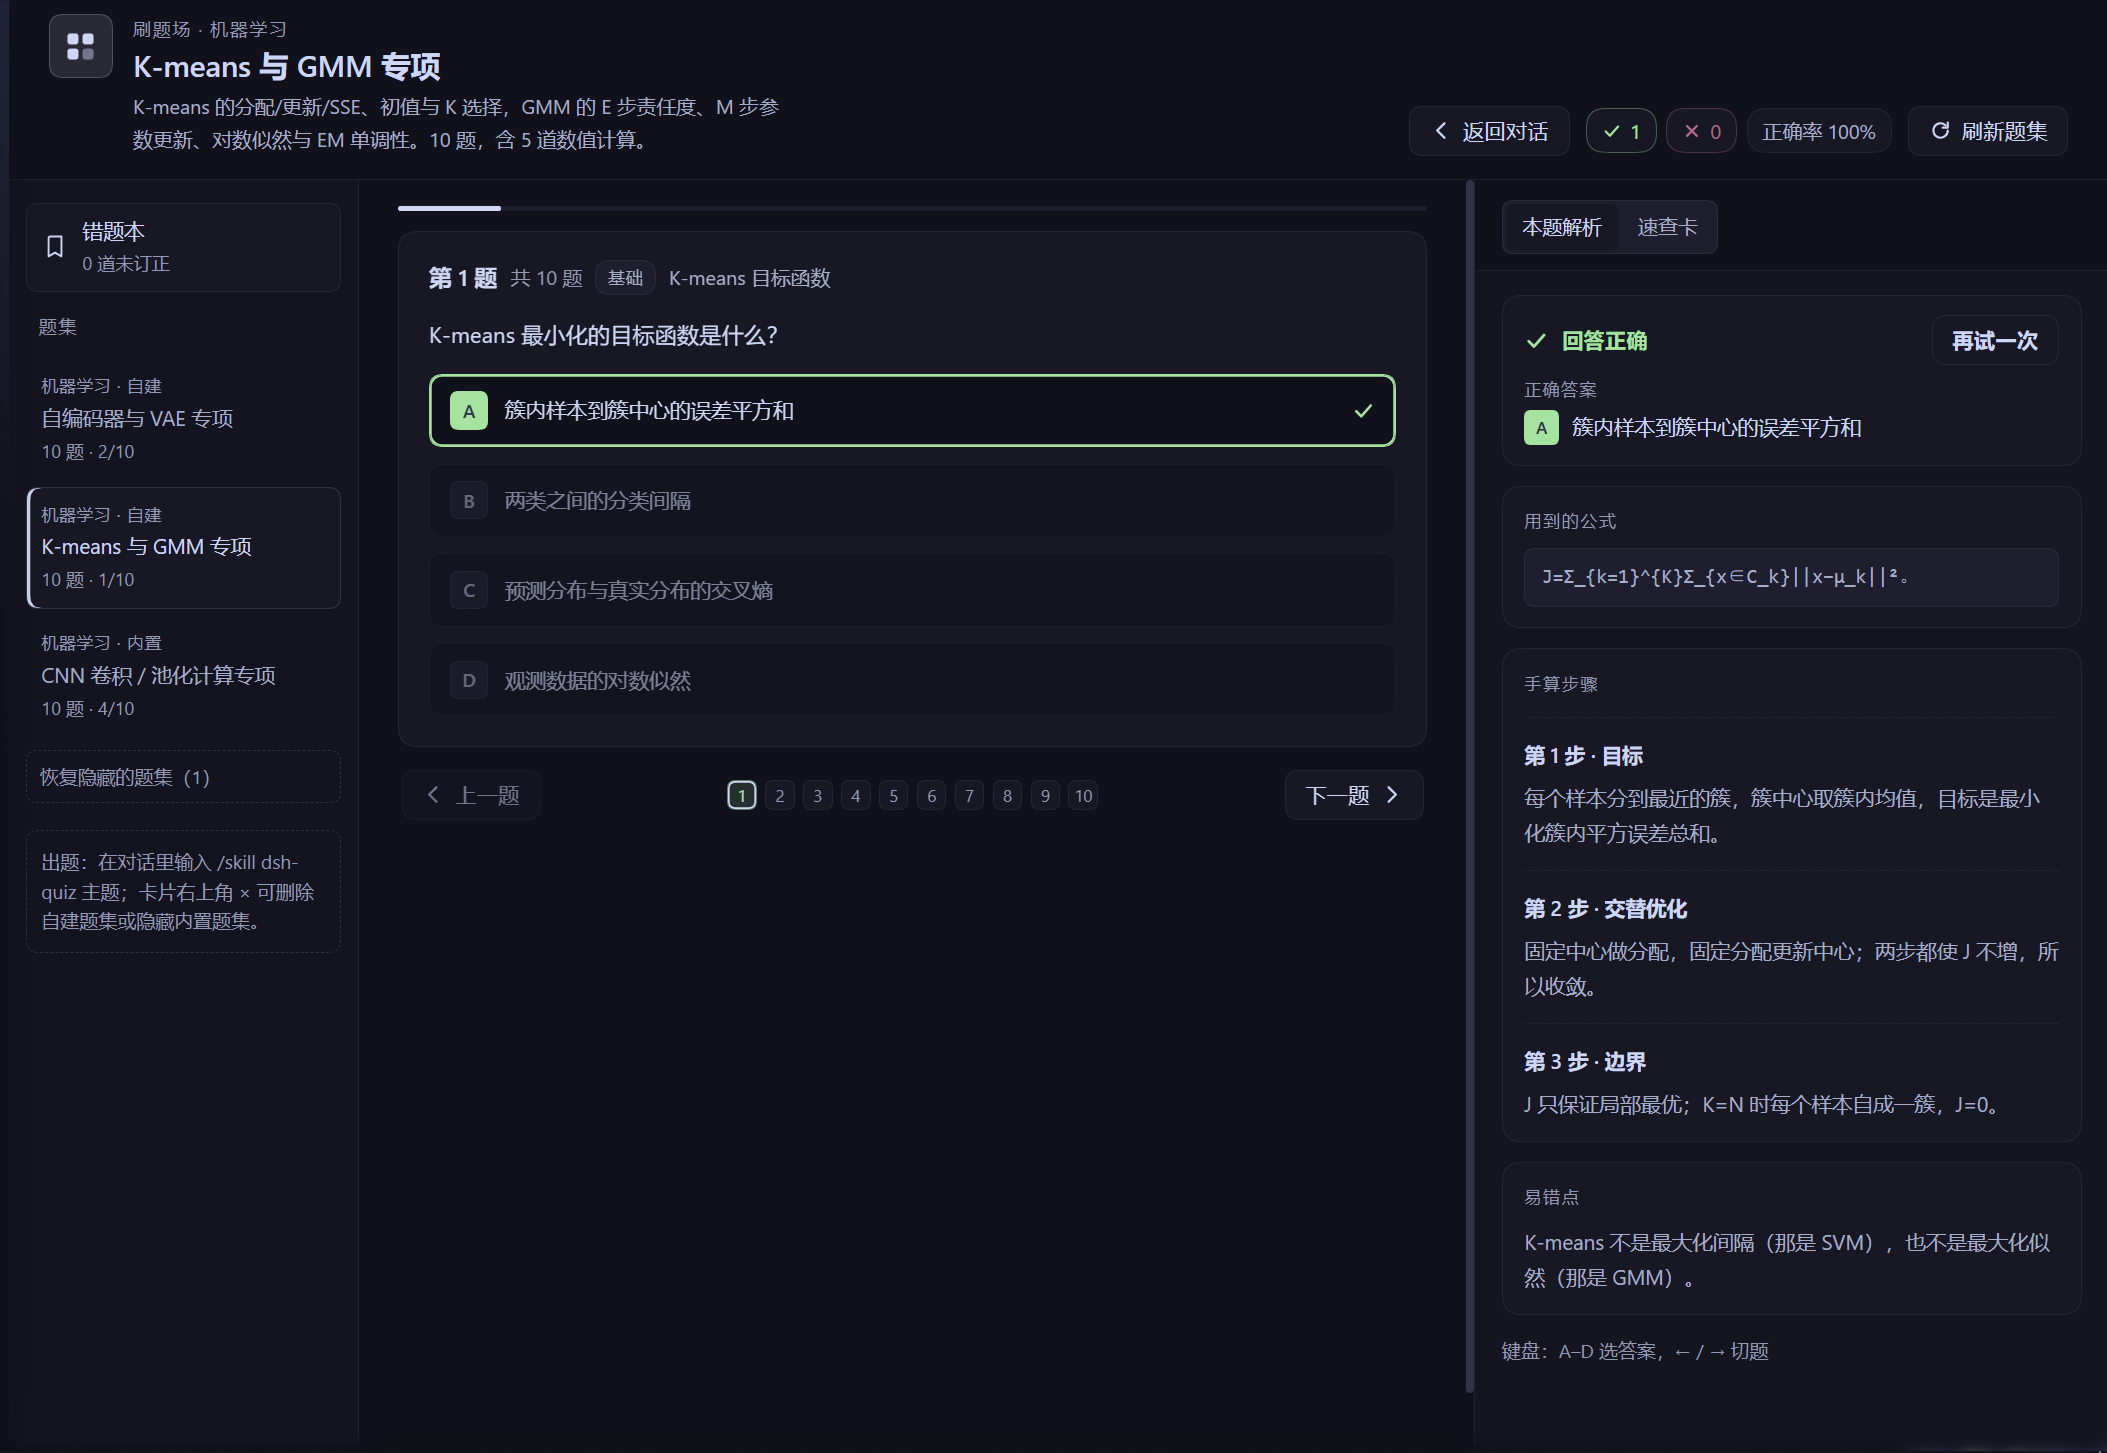
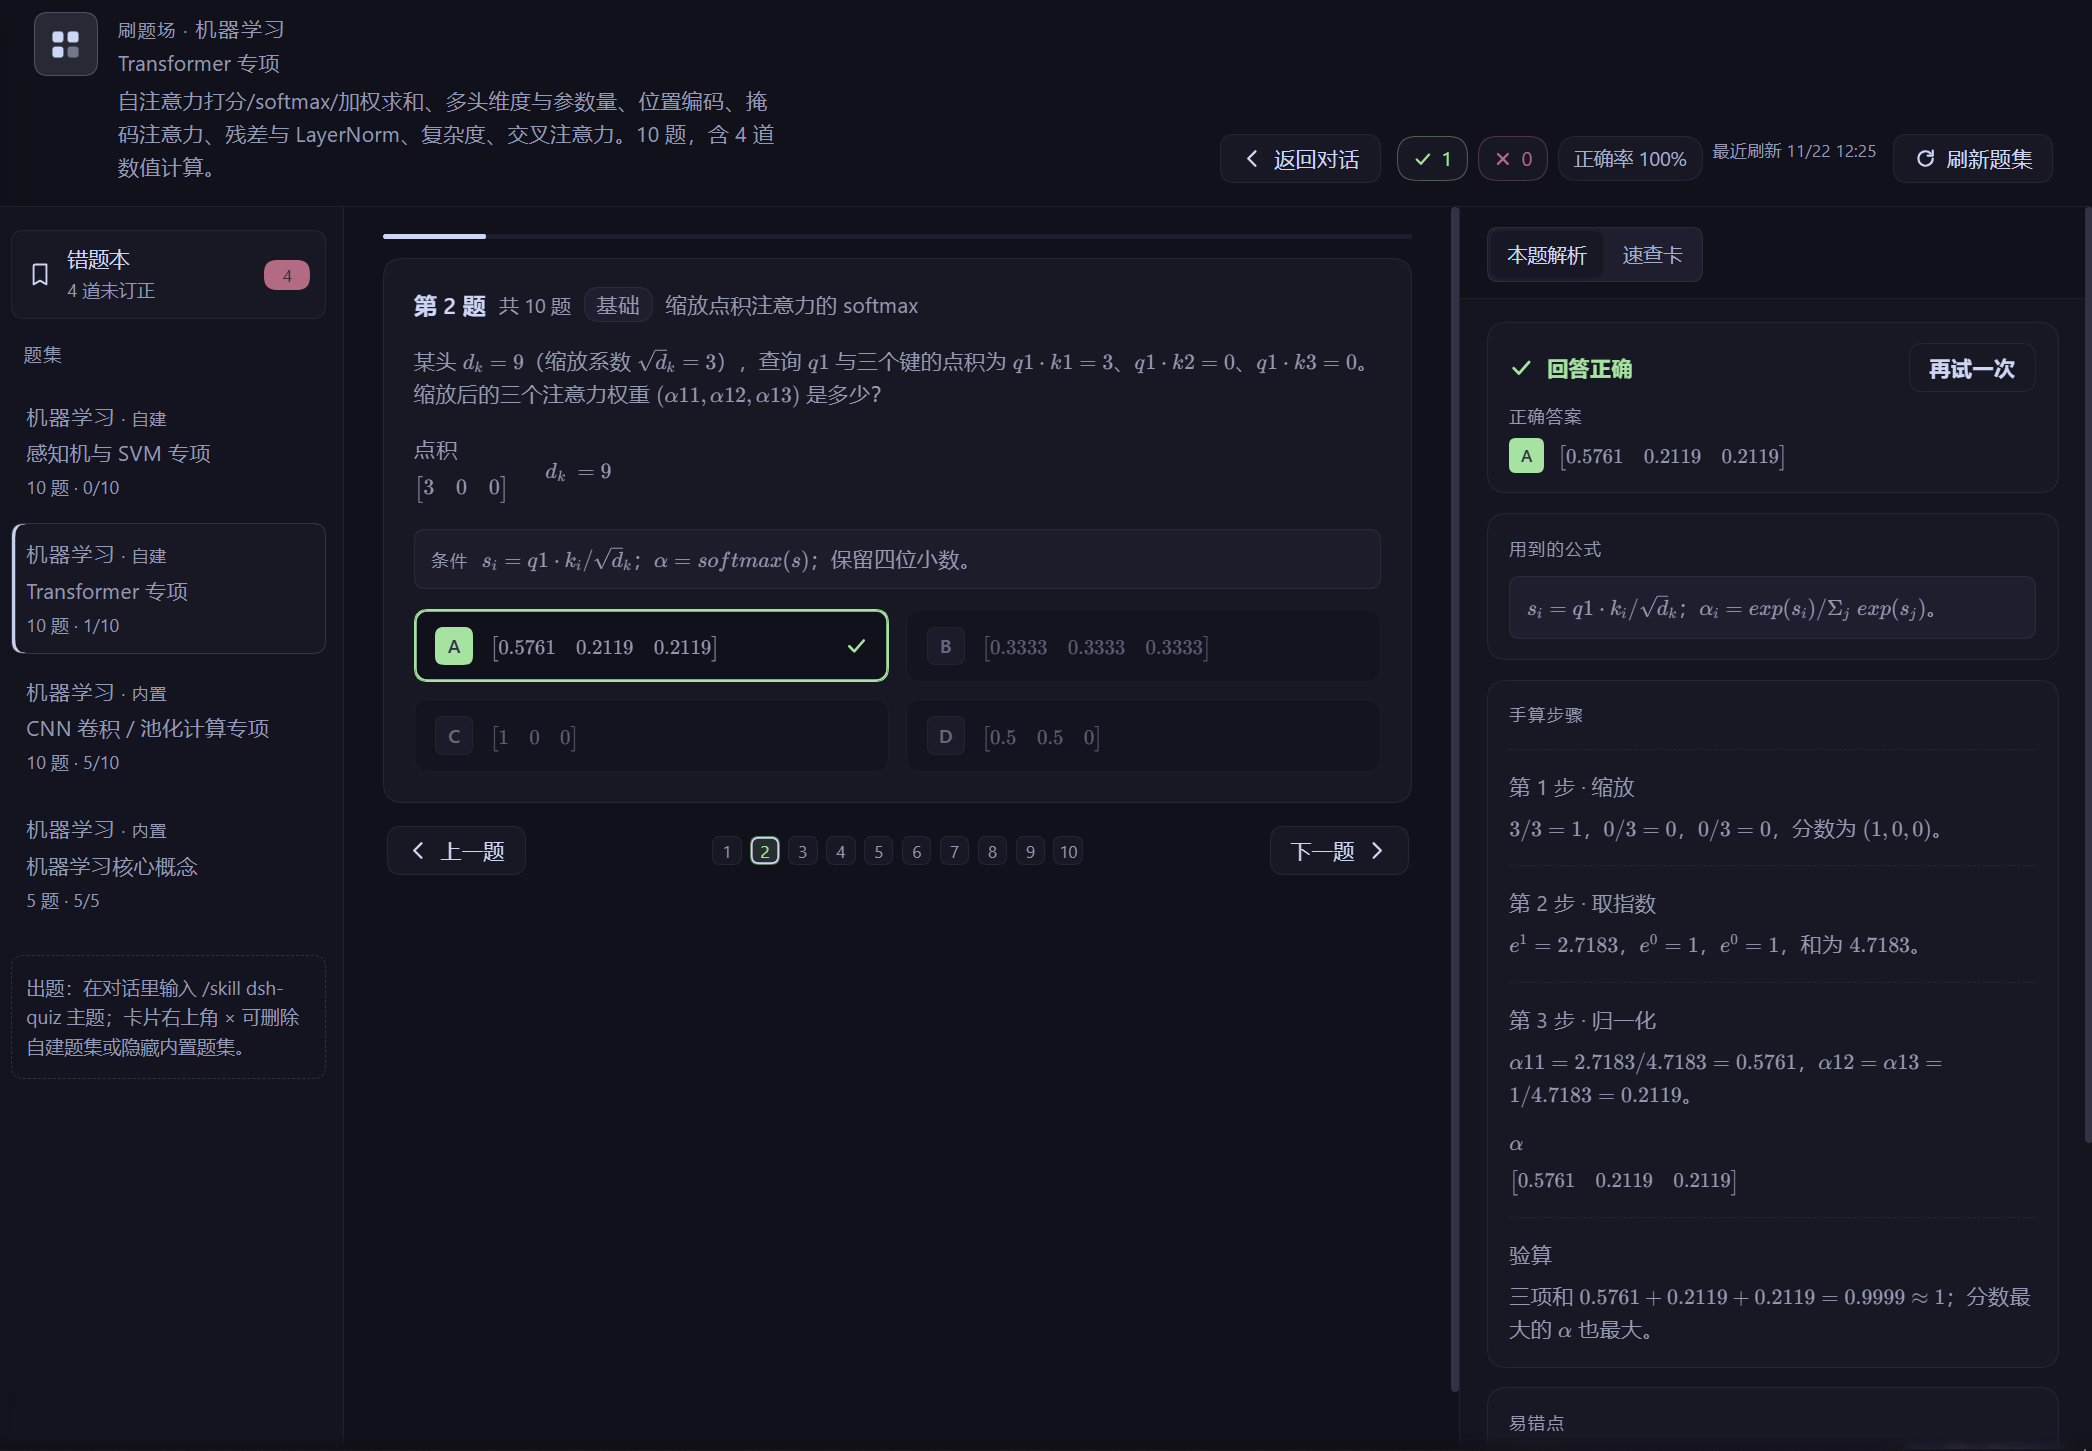
Refresh 1.0.2 screenshot, add screenshots manifest, allow 5-15 questions

diff --git a/skill.md b/skill.md
@@ -12,7 +12,7 @@
 
 ## 2. 设计题目（硬性要求）
 
-- 题数 5–10，由易到难，覆盖该主题的核心计算与概念，不要只出名词解释。
+- 题数 5–15，由易到难，覆盖该主题的核心计算与概念，不要只出名词解释。
 - **每道题的答案和全部中间量都必须自己算对**，再写进 `steps`；禁止估算、凭记忆填数、占位。
 - 计算题要在 `steps` 里逐步写：
   1. 第 1 步：公式与输出尺寸/已知量；
